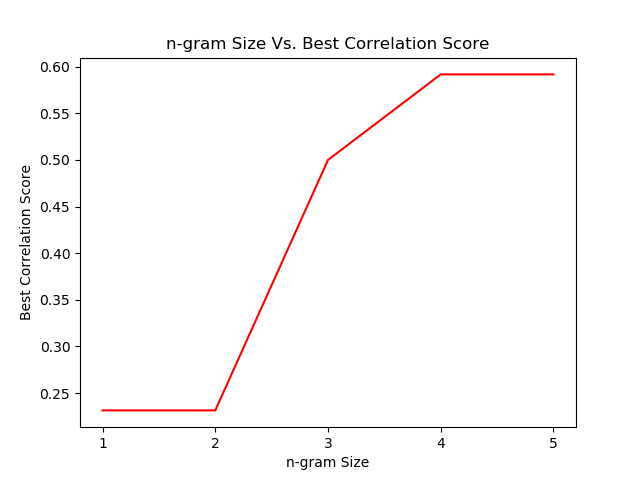
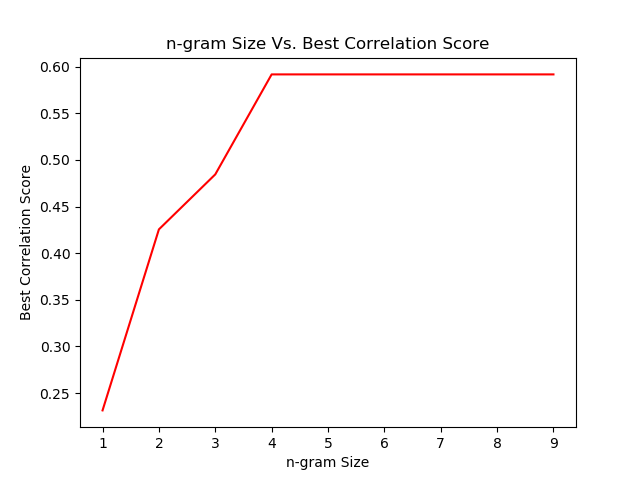
some plots

diff --git a/plot.py b/plot.py
@@ -4,13 +4,16 @@ from matplotlib.ticker import MaxNLocator
 
 
 # nplus   n       best score
-# 6       5       0.59170059157
-# 5       4       0.59170059157
-# 4       3       0.5
-# 3       2       0.231475216501
-# 2       1       0.231475216501
-x = range(1,6)
-y = [0.231475216501, 0.231475216501, 0.5, 0.59170059157, 0.59170059157]
+# 9       8       0.59170059157                   Perfect if you need to be close to the airport
+# 8       7       0.59170059157                   Perfect if you need to be close to the airport
+# 7       6       0.59170059157                   Perfect if you need to be close to the airport
+# 6       5       0.59170059157                   Perfect if you need to be close to the airport
+# 5       4       0.59170059157                   Perfect if you need to be close to the airport
+# 4       3       0.484504963259                  There have several problems the host needs to improve
+# 3       2       0.231475216501/0.425557483188   Oh and the subway station which has shuttle buses
+# 2       1       0.231475216501                  Oh and there the talking to Boston Memorial
+x = range(1,10)
+y = [0.231475216501, 0.425557483188, 0.484504963259, 0.59170059157, 0.59170059157, 0.59170059157, 0.59170059157, 0.59170059157, 0.59170059157]
 plt.figure()
 plt.plot(x, y,'r')
 plt.title("n-gram Size Vs. Best Correlation Score")
